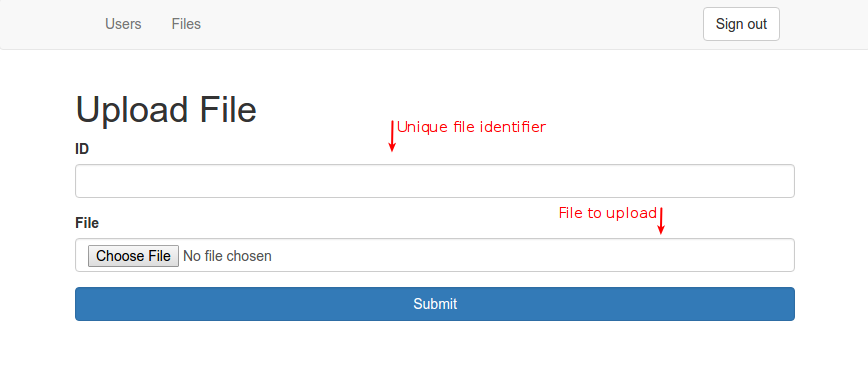
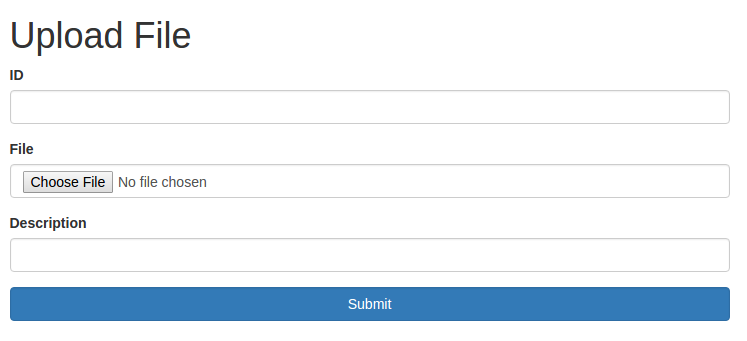
fixes to the english documentation

diff --git a/source/en/doc/user-guide.md b/source/en/doc/user-guide.md
@@ -22,19 +22,19 @@ On the Main panel you can find links to the [user management](#user-management) 
 
 <img src="/images/user-guide/files-eng.png" style="width: 1100px"/>
 
-After signing in to AWI you will find yourself on the "Files" page. This page is for managing of your files. The following functions are available on this page:
+After signing in to AWI you should see "Files" page. This page is for managing of your files. The following functions are available on this page:
 
-  * [New file uploading](#file-uploading)
-  * Uploaded files list
+  * Upload New File ([Read](#file-uploading))
+  * View Uploaded Files
   * For uploaded files:
-    * [File profiling](#file-profiling)
-    * File downloading
-    * [File updating](#file-updating)
-    * File removing
+    * Profile ([Read](#file-profiling))
+    * Download
+    * Update ([Read](#file-updating))
+    * Remove
+
 
 {:#file-uploading}
-### New file uploading
-
+### Upload New File
 <img src="/images/user-guide/upload-file-eng.png" style="width: 700px"/>
 
 The "Upload" page is for new file uploading.
@@ -42,20 +42,21 @@ In order to upload a new file, you should set:
  
   * **ID** - unique identifier of the new file. This is required integer field.
   * **File** - file to upload. This is required field.
+  * **Description** - optional description of the file.
 
 The file will be uploaded after you click the "Submit" button.
 
 <div class="well well-sm">
-<b>Note!</b> Before you upload your file, you should make a few simple adjustments to it as described in the <a href="/en/doc/mengine/file-preparation/">manual</a>.
+<b>Note!</b> Before you upload your file, you need to make a few simple adjustments to it as described in the <a href="/en/doc/mengine/file-preparation/">Excel File Preparation Guide</a>.
 </div>
 
 {:#file-profiling}
-### File profiling
+### Profile
 
 <img src="/images/user-guide/profile-eng.png"/>
 
 <div class="well well-sm">
-<b>Note!</b> This feature is for file performance checking. For production usage, you should use <a href="/en/doc/mengine/integration-guide/">MathEngine REST API</a>.
+<b>Note!</b> This feature is for file performance checking. For production usage use <a href="/en/doc/mengine/integration-guide/">MathEngine REST API</a>.
 </div>
 
 Using the "Profile" page you can set input parameters for the file manually and check the output value from it.
@@ -70,7 +71,7 @@ Using the "Options" button you can export and import IN parameters to/from json 
 <img src="/images/user-guide/profile-options.png" />
 
 {:#file-updating}
-### File updating
+### Update
 
 <img src="/images/user-guide/replace.png" width="700px"/>
 

diff --git a/source/en/doc/mengine/file-preparation.md b/source/en/doc/mengine/file-preparation.md
@@ -6,15 +6,15 @@ title: MathEngine. File preparation.
 
 # Excel file preparation
 
-In order to upload an Excel file to the Engine you should create IN and OUT sheets. These sheets are needed for Engine inter-operation with your file.
+In order to upload an Excel file to the Engine you MUST create IN and OUT sheets. These sheets are used for communication between Engine and your file.
 
 <div class="well well-sm">
-<b>Note!</b> All used cells in the "IN" and "OUT" sheets must have values. Cells that are not used should be cleared. You can clear cells by clicking Home Tab -> Editing Section -> Clear -> Clear All (Alt+H+E+A).
+<b>Note!</b> All used cells in the "IN" and "OUT" sheets MUST have values. Cells that are not used MUST be cleared. You can clear cells by clicking Home Tab -> Editing Section -> Clear -> Clear All (Alt+H+E+A).
 </div>
 
 ## "IN" sheet preparation
 
-*IN* sheet is the entry point of your file for the Engine. This sheet should contain all input parameters that your file should accept for calculation results and that your file depends on.
+*IN* sheet is the entry point of your file for the Engine. This sheet contains all input parameters that your file accepts for calculation results and that your file depends on.
 
 Typical *IN* parameters are:
 
@@ -40,11 +40,11 @@ Usually this value is the serial number of the parameter.
 The "OUT" sheet contains the Excel file calculation result.
 The content of this sheet will be returned by [MathEngine REST API](/en/doc/mengine/integration-guide/) as is.
 
-**"OUT" sheet references should point <u>FROM</u> all data that you want to get from the file.**
+**"OUT" sheet references MUST point <u>FROM</u> all data that you want to get from the file.**
 
 Typical *OUT* values are:
 
-* Coefficients
+* Odds
 * Markets parameters
 * Outcome parameters
 * etc.
